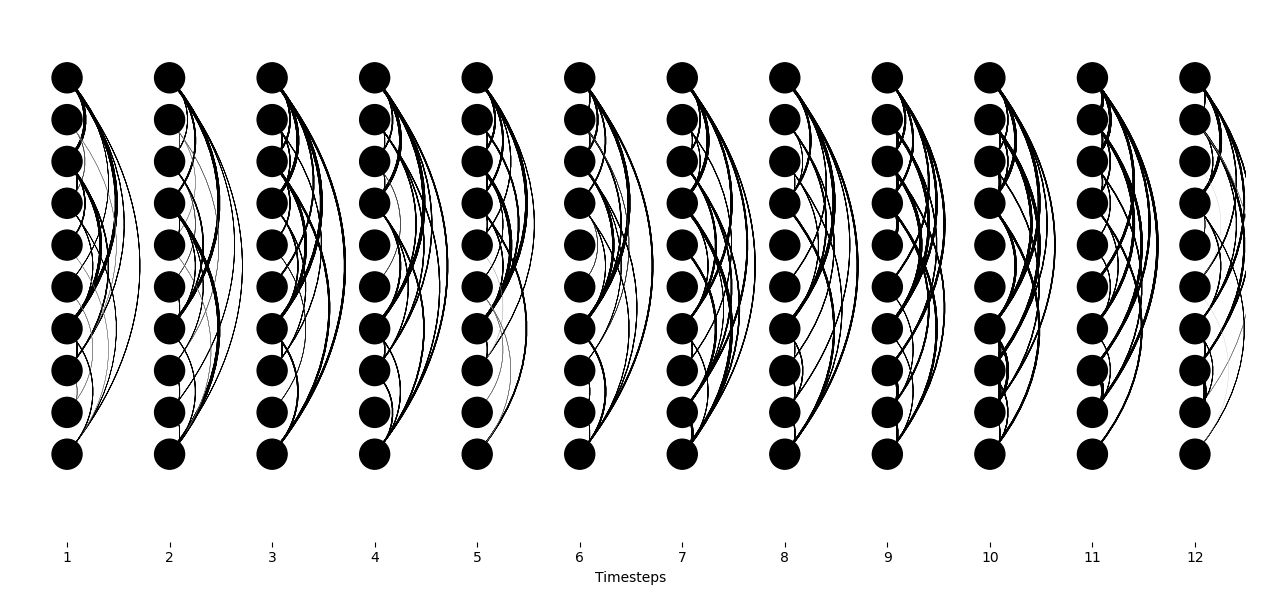
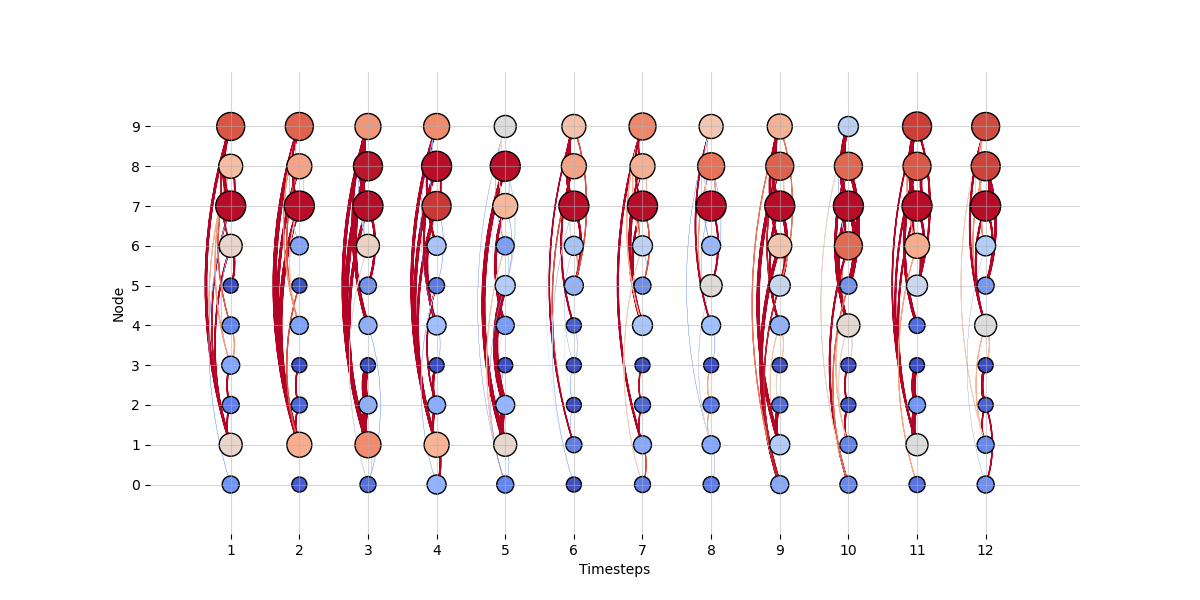
update temp layout figure, fix bug

diff --git a/src/tempnetviz/temporal_layout.py b/src/tempnetviz/temporal_layout.py
@@ -157,14 +157,16 @@ def plot_temporal_layout(path_to_file, ax=None, percentage_threshold = 0.0, mnn 
         ig.plot(subgraph, target=ax, layout=layout, **visual_style)
         
     ax.set_yticks(range(node_number))
-    ax.set_yticklabels(node_labels)  # Label each tick
+    if node_labels is not None:
+        ax.set_yticklabels(node_labels)  # Label each tick
     ax.set_xticks(range(timesteps))  # Set ticks at each time step position
     ax.set_xticklabels([f'{i+1}' for i in range(timesteps)])  # Label each tick
     ax.set_xlabel('Timesteps')
+    ax.set_ylabel('Node')
     ax.grid(alpha = 0.5)
     
 if __name__ == "__main__":
-    path = "..\\..\\data\\nosemaze\\both_cohorts_1days\\G1\\"
+    path = "..\\..\\data\\nosemaze\\both_cohorts_1days\\G10\\"
     file1 = "interactions_resD1_01.csv"
     file2 = "interactions_resD1_02.csv"
     file3 = "interactions_resD1_03.csv"
@@ -183,6 +185,6 @@ if __name__ == "__main__":
     
     fig, ax = plt.subplots(1, 1, figsize=(12, 6))
     plot_temporal_layout(paths, ax, mnn = 5, deg = 3,
-                         node_size = 10, edge_width = 2, between_layer_edges = False, 
-                         rm_fb_loops=True,  cluster_num = None, node_labels = True, rm_index = True,
-                         node_metric = "k-core", node_cmap = cm.coolwarm, edge_cmap = cm.Greys, scale_edge_width = False)
+                         node_size = 15, edge_width = 5, between_layer_edges = False, 
+                         rm_fb_loops=True,  cluster_num = None, node_labels = False, rm_index = True,
+                         node_metric = "strength", node_cmap = cm.coolwarm, edge_cmap = cm.coolwarm, scale_edge_width = True)

diff --git a/src/tempnetviz/main_gui.py b/src/tempnetviz/main_gui.py
@@ -408,7 +408,7 @@ class App:
                 cb = f.colorbar(ScalarMappable(norm=Normalize(vmin=0, vmax=1), cmap=cm.Reds), ax=a, label="Normalized metric value", shrink = 0.3, location = 'left')
                 cb.remove()
             
-        f.subplots_adjust(left=0, bottom=0, right=0.948, top=1, wspace=0, hspace=0)
+        # f.subplots_adjust(left=0, bottom=0, right=0.948, top=1, wspace=0, hspace=0)
 
         canvas = FigureCanvasTkAgg(f, master=self.content_frame)
         NavigationToolbar2Tk(canvas, self.content_frame)

diff --git a/README.md b/README.md
@@ -24,7 +24,7 @@ Steps to get started:
    You can apply a **graph cut** (edge pruning) for better readability on large graphs.
 4. Switch between **Graph**, **Histogram**, and **Animation** views to gain different insights.
 
-You can apply aesthetic changes (e.g. edge/nodes widths, colors...) to the results via the **settings** button.
+You can apply aesthetic changes (e.g. edge/nodes widths, colors...) to the results via the **Settings** button.
 
 ![Quickstart](https://github.com/KelschLAB/TemporalGraphViz/raw/main/quickstart_numbered.png)
 
